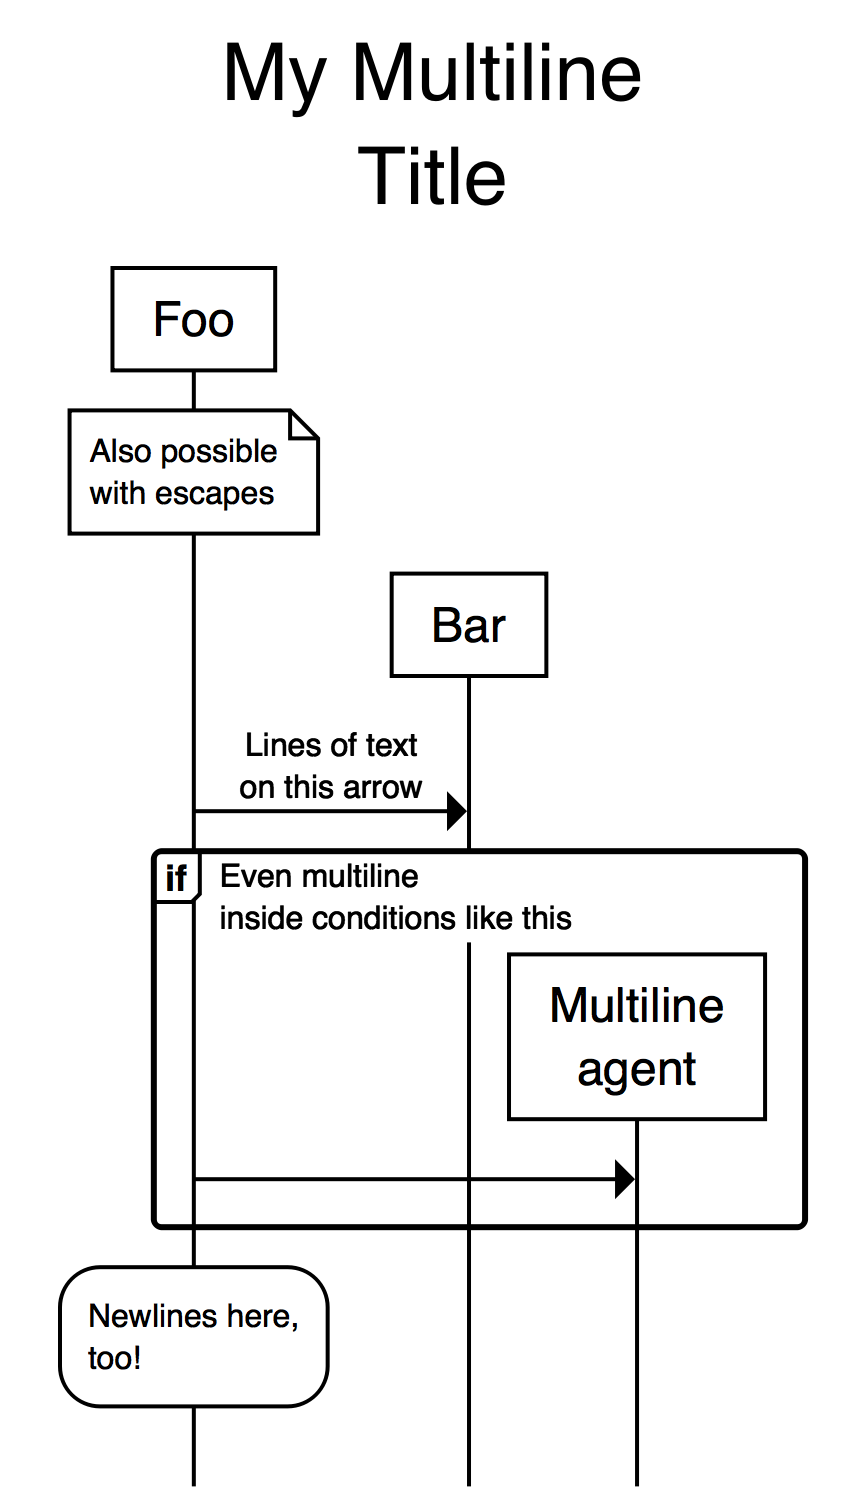
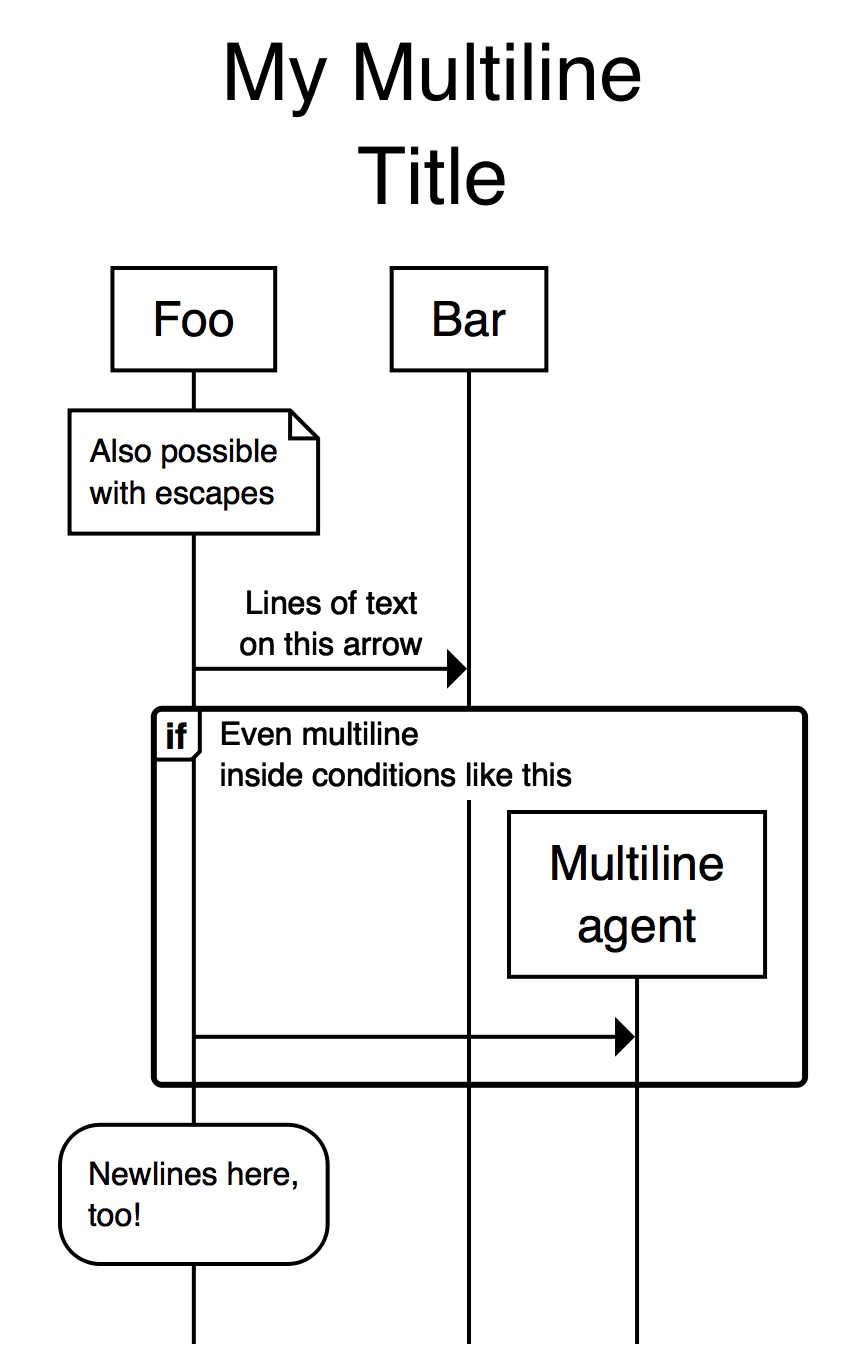
Add agent types example to readme and library page [#36]

diff --git a/library.htm b/library.htm
@@ -284,6 +284,8 @@ A <- ]: Profit!
 title "My Multiline
 Title"
 
+begin Foo, Bar
+
 note over Foo: "Also possible\nwith escapes"
 
 Foo -> Bar: "Lines of text\non this arrow"
@@ -377,6 +379,21 @@ define Baz, Foo
 
 Foo -> Bar
 Bar -> Baz
+</pre>
+</section>
+
+<section>
+<h3 id="AgentTypes">Agent Types</h3>
+<pre class="example" data-lang="sequence">
+begin User, Application, PostgreSQL
+
+User -> +Application
+Application -> +PostgreSQL
+-PostgreSQL --> Application
+-Application --> User
+
+User is a person
+PostgreSQL is a database
 </pre>
 </section>
 

diff --git a/README.md b/README.md
@@ -160,6 +160,8 @@ A <- ]: Profit!
 title "My Multiline
 Title"
 
+begin Foo, Bar
+
 note over Foo: "Also possible\nwith escapes"
 
 Foo -> Bar: "Lines of text\non this arrow"
@@ -249,6 +251,22 @@ define Baz, Foo
 
 Foo -> Bar
 Bar -> Baz
+```
+
+### Agent Types
+
+<img src="screenshots/AgentTypes.png" alt="Agent Types preview" width="200" align="right" />
+
+```
+begin User, Application, PostgreSQL
+
+User -> +Application
+Application -> +PostgreSQL
+-PostgreSQL --> Application
+-Application --> User
+
+User is a person
+PostgreSQL is a database
 ```
 
 ### Asynchronous Communication
